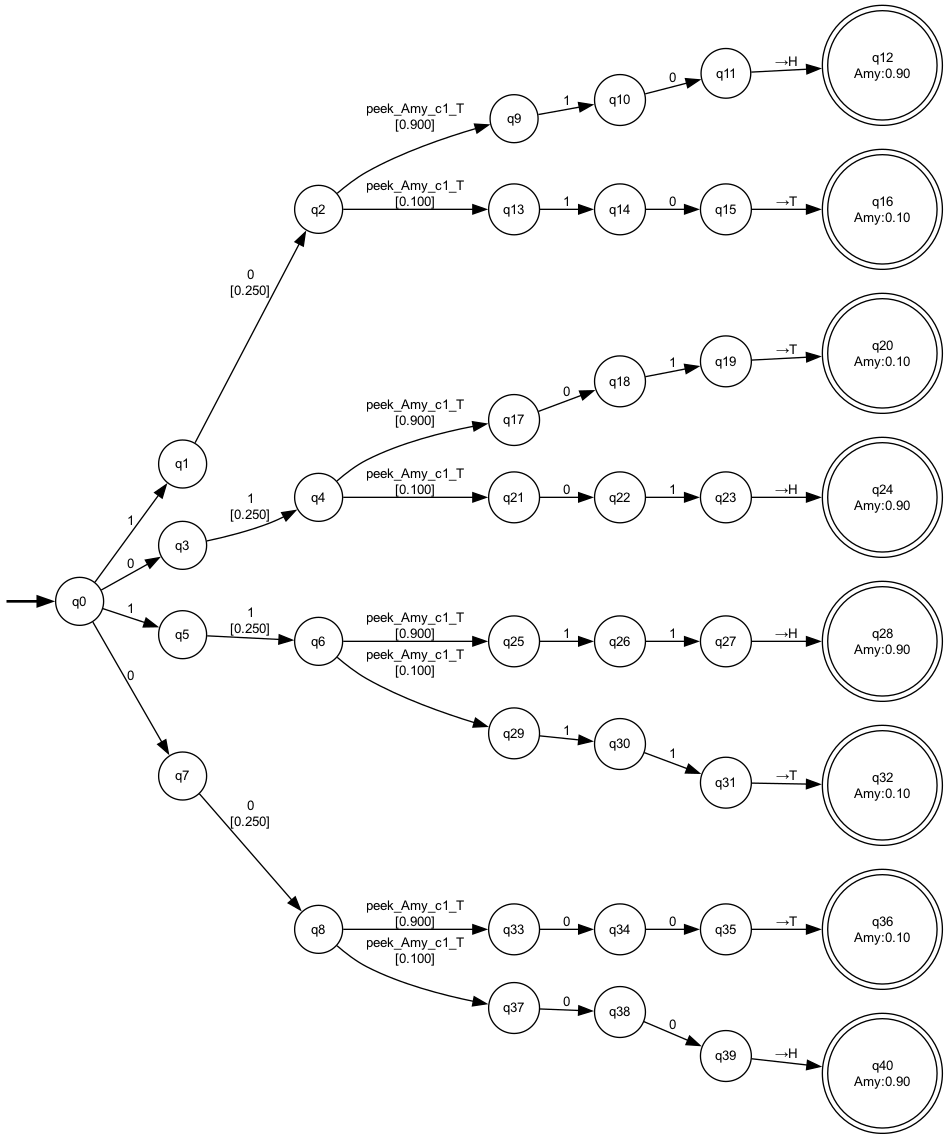
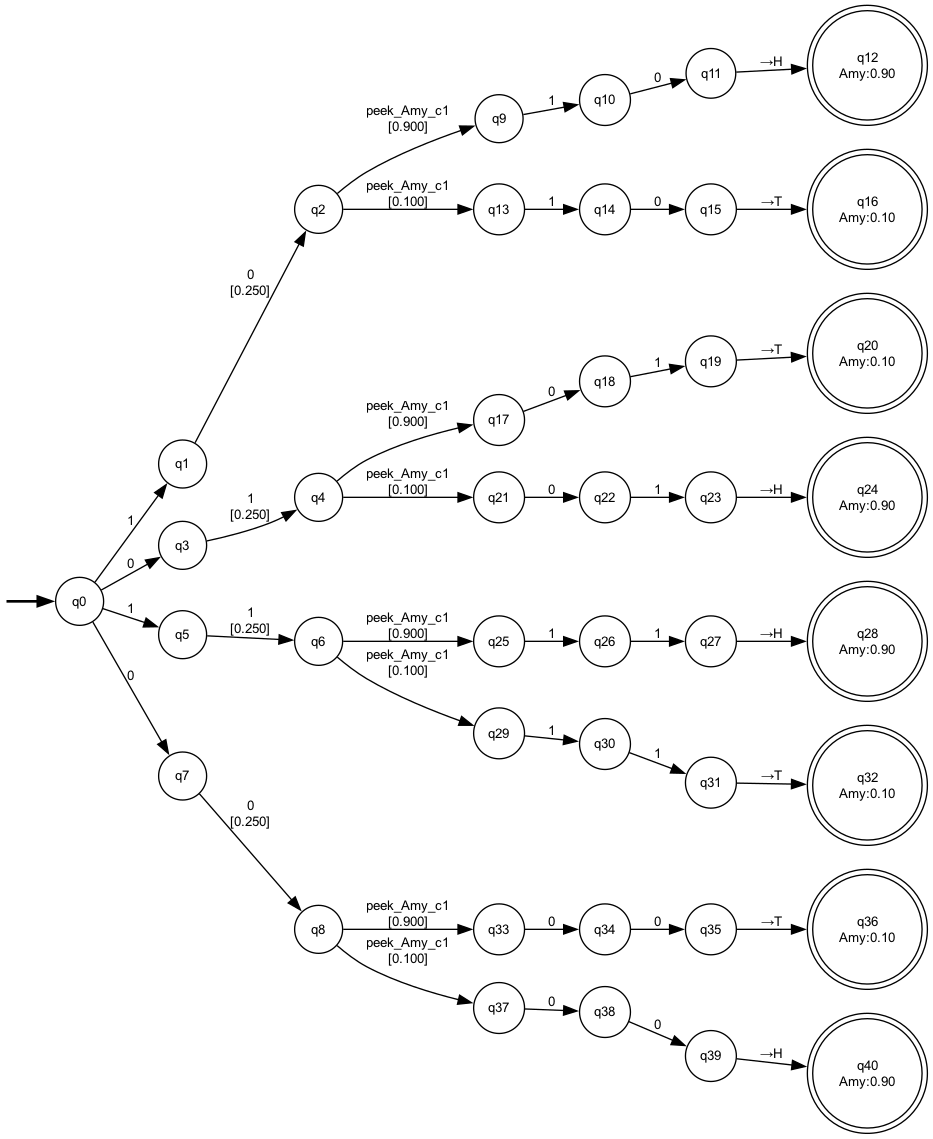
add an example to reflect belief alternatives

diff --git a/probs/new_demo_vis_automatic_belief_updates.py b/probs/new_demo_vis_automatic_belief_updates.py
@@ -25,8 +25,7 @@ def create_noisy_peek_with_obs_states(
         if len(s) == 2:
             coin1, coin2 = s
         else:
-            coin1, coin2 = s[:2]
-        
+            coin1, coin2 = s[:2]        
         base_state = (coin1, coin2)
         true_value = base_state[coin_index]
         
@@ -73,6 +72,17 @@ def demo():
         frozenset({(0, 0), (0, 1)})   # coin1=T
     ]
     
+    bob_equiv_classes = [
+        frozenset({(1, 0), (0, 0)}),  # coin2=H
+        frozenset({(0, 1), (1, 1)})   # coin2=T
+    ]
+    bob_initial = EpistemicBeliefState(
+        agent="Bob",
+        belief_distribution={
+            bob_equiv_classes[0]: 0.5,
+            bob_equiv_classes[1]: 0.5
+        }
+    )
     amy_initial = EpistemicBeliefState(
         agent="Amy",
         belief_distribution={
@@ -83,7 +93,7 @@ def demo():
     
     # Build model with AUGMENTED-STATE peek action
     model = build_complete_model(include_noisy_actions=False)  # Don't use old actions
-    
+    agents = model.agents
     # Add the new augmented-state peek action
     peek_Amy_coin1 = create_noisy_peek_with_obs_states(
         coin_index=0, 
@@ -133,7 +143,24 @@ def demo():
     visualize_epistemic_fst(T2, "epistemic_2_one_peek_CORRECTED", show_beliefs=True)
     print("   → Shows AUTOMATIC belief update after observation")
     print("   → Different paths show different belief updates")
+
+    print("\n2.2 After one peek (automatic belief update!)")
+    print("   Using augmented-state action: peek_Amy_coin1") 
+    T22 = export_epistemic_guarded_string(
+        initial_dist,
+        {"Bob": bob_initial},
+        ["peek_Amy_coin1"],  # Use the augmented-state action!
+        model,
+        {"Bob": bob_equiv_classes},
+        {"Amy": 0.9},
+        n_coins=2
+    )
     
+    print(f"   States: {T22.number_of_states()}, Arcs: {T22.number_of_arcs()}")
+    visualize_epistemic_fst(T22, "epistemic_2_Bob_one_peek_CORRECTED", show_beliefs=True)
+    print("   → Shows AUTOMATIC Bob's belief update after observation")
+    print("   → Different paths show different belief updates")
+
     # Example 3: Two observations
     print("\n3. After two peeks (compounding belief updates)")
     

diff --git a/probs/new_clean_fst_viewer.py b/probs/new_clean_fst_viewer.py
@@ -75,13 +75,13 @@ def clean_label(label):
         # "peek_Amy_coin1_H_noisy" -> "peek_Amy_c1_H"
         agent = "Amy" if "Amy" in label else "Bob"
         coin_num = "1" if "coin1" in label else "2"
-        observed = "H" if "_H" in label else "T"
+        observed = "H" if "_H" in label else "T" if "_T" in label else ""
         is_noisy = "noisy" in label
         
         if is_noisy:
-            return f"peek_{agent}_c{coin_num}_{observed}"
+            return f"peek_{agent}_c{coin_num}{observed}"
         else:
-            return f"peek_{agent}_c{coin_num}_{observed}"
+            return f"peek_{agent}_c{coin_num}{observed}"
     
     # Handle generic peek labels (without H/T suffix)
     if label.startswith('peek_Amy_') or label.startswith('peek_Bob_'):

diff --git a/probs/clean_fst_vis.py b/probs/clean_fst_vis.py
@@ -68,7 +68,7 @@ def clean_label(label):
         # "peek_Amy_coin1_H_noisy" -> "peek_Amy_c1_H"
         agent = "Amy" if "Amy" in label else "Bob"
         coin_num = "1" if "coin1" in label else "2"
-        observed = "H" if "_H" in label else "T"
+        observed = "H" if "_H" in label else "T" if "_T" in label else ""
         is_noisy = "noisy" in label
         
         if is_noisy:

diff --git a/probs/probabilistic_epikat_with_alternatives.py b/probs/probabilistic_epikat_with_alternatives.py
@@ -8,7 +8,7 @@ Extension of the two-coin model with three types of probabilities:
 
 Includes HFST export for visualization and manipulation.
 """
-
+from epistemic_guarded_strings import export_epistemic_guarded_string,visualize_epistemic_fst
 import math
 from dataclasses import dataclass, field
 from typing import Callable, Dict, FrozenSet, Set, Tuple, List, Optional
